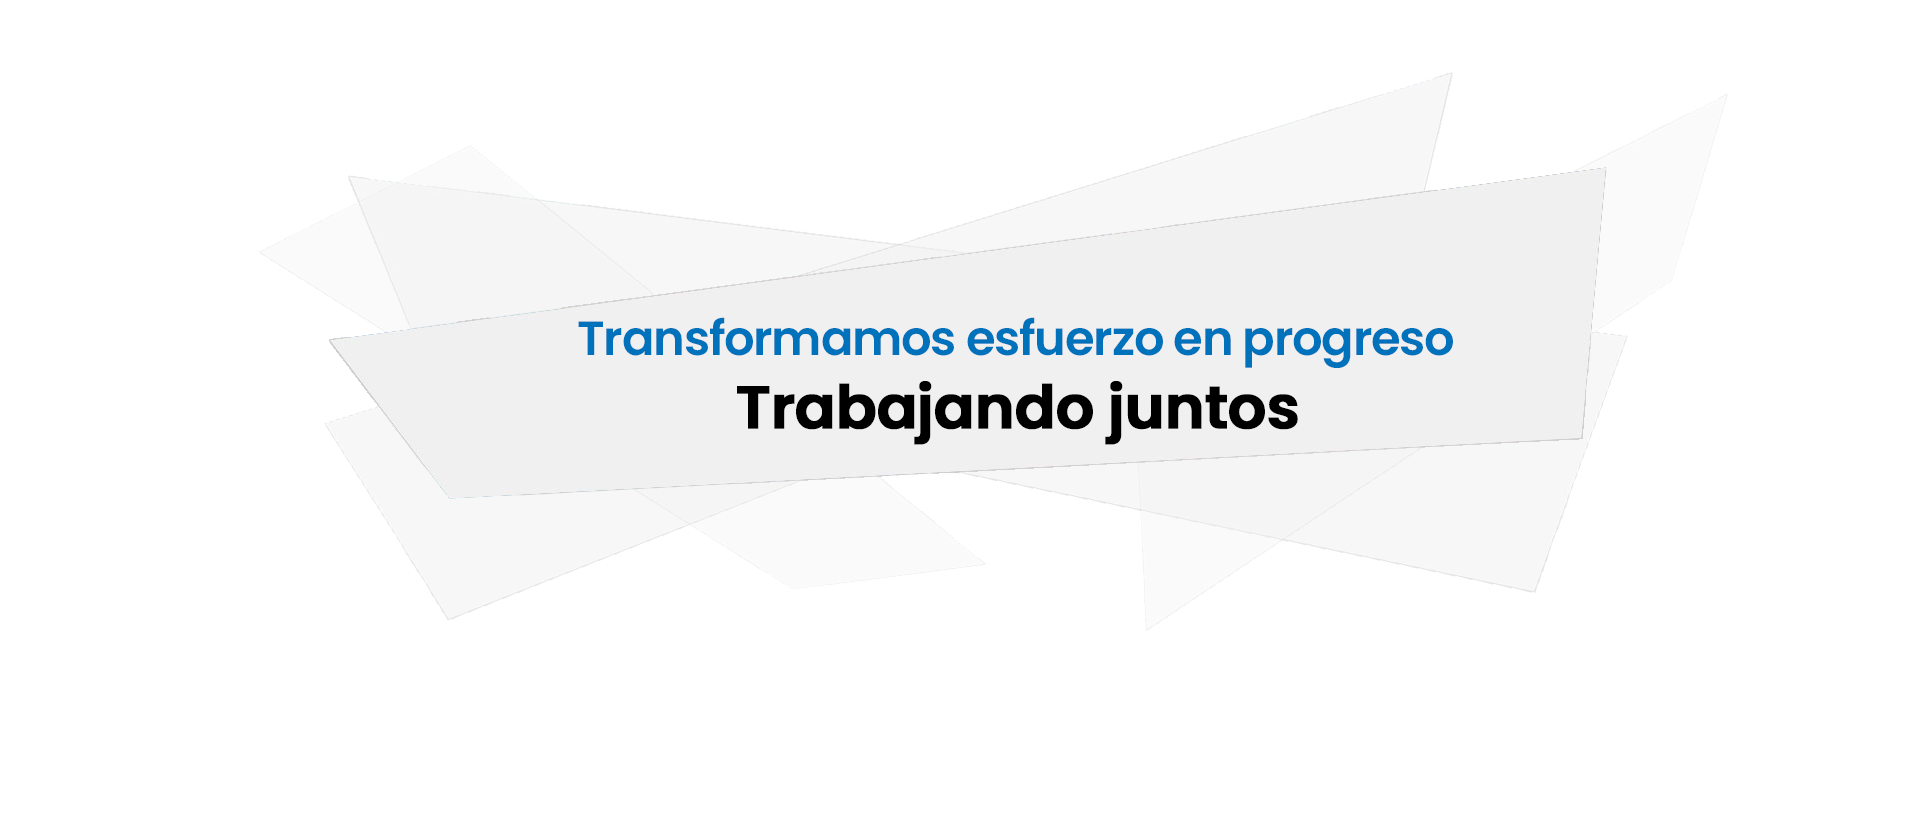
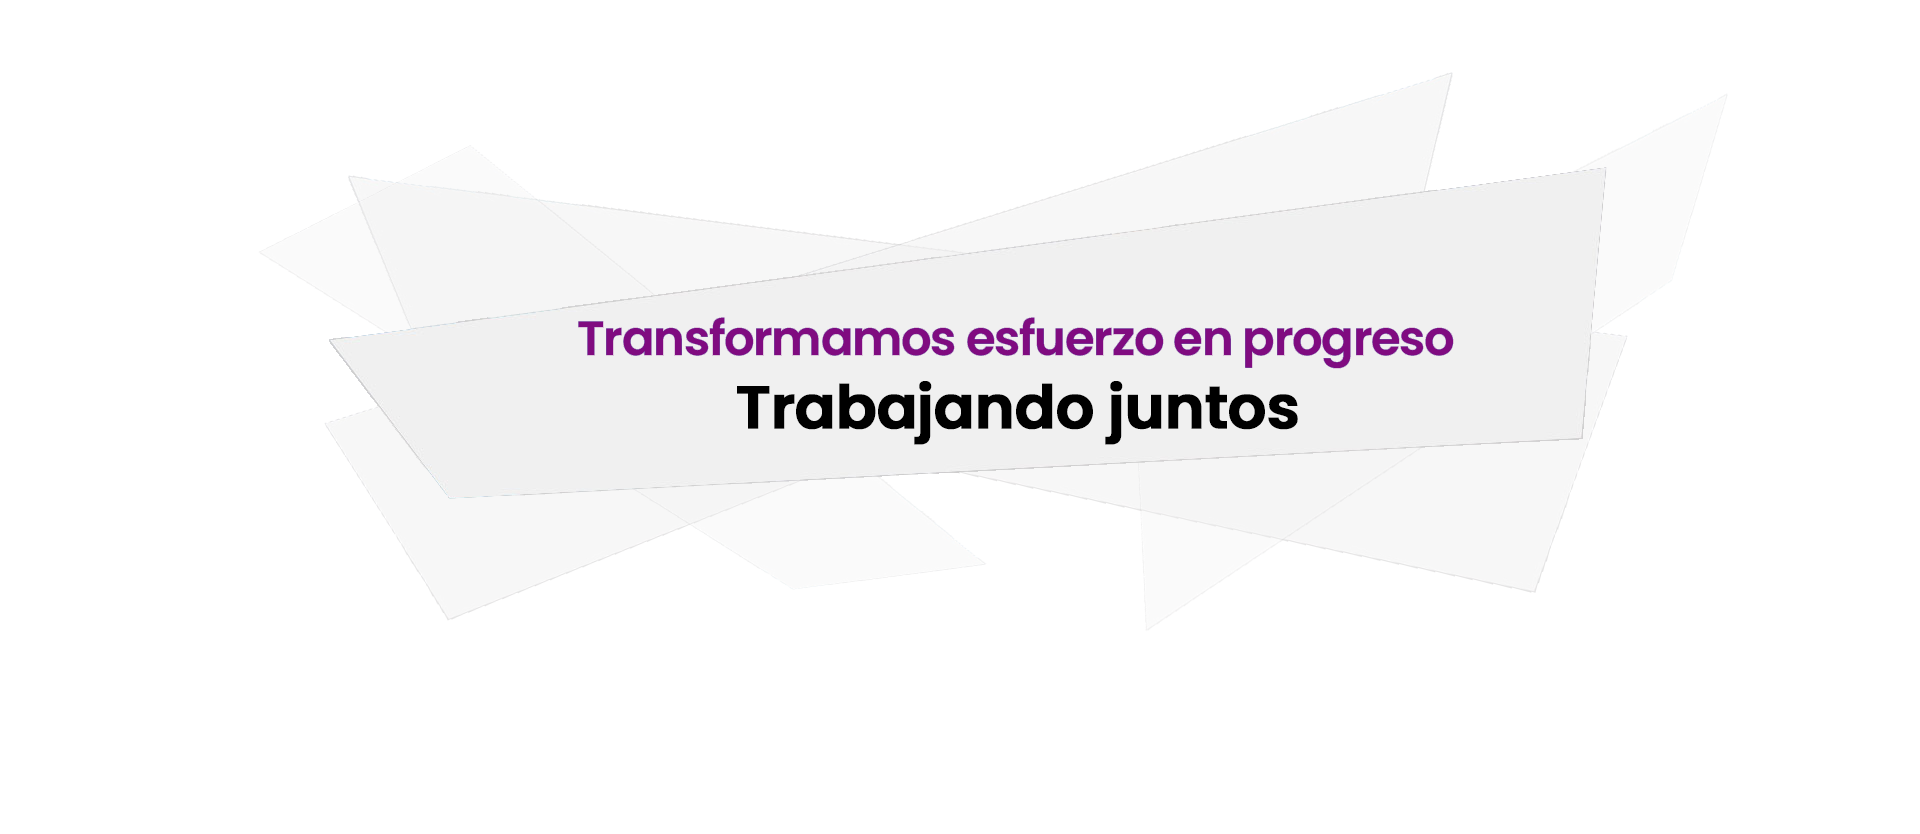
color primario y fotos

Changed region(s): [[0.2812, 0.3741, 0.7812, 0.4365]]

diff --git a/css/style.css b/css/style.css
@@ -29,6 +29,12 @@
 @import url(nice-select.css);
 
 /*--------------------------------------------------------------------- skeleton ---------------------------------------------------------------------*/
+:root {
+     --color-primario: #800b80; /* Aquí defines el color primario */
+     --color-secundario: #4d004d;
+     --color-terciario: #990b99;
+ }
+
 
 * {
      box-sizing: border-box !important;
@@ -180,7 +186,7 @@ img {
 
 .form-control:focus {
      border-color: #ffffff !important;
-     box-shadow: 0 0 0 .2rem rgba(255, 255, 255, .25);
+     box-shadow: 0 0 0 .2rem rgba(255, 255, 255, 0.25);
 }
 
 .navbar-form input {
@@ -281,14 +287,16 @@ button {
 
 .navigation.navbar-dark .navbar-nav .nav-link:focus,
 .navigation.navbar-dark .navbar-nav .nav-link:hover {
-     color: #000;
+     color: #ffffff;
+     font-weight: 700;
 }
 
 .navigation.navbar-dark .navbar-nav .active>.nav-link,
 .navigation.navbar-dark .navbar-nav .nav-link.active,
 .navigation.navbar-dark .navbar-nav .nav-link.show,
 .navigation.navbar-dark .navbar-nav .show>.nav-link {
-     color: #000;
+     color: #ffffff;
+     font-weight: 700;
 }
 
 .navbar-expand-md .navbar-nav {
@@ -296,7 +304,7 @@ button {
 }
 
 .header_information {
-     background-color: #0071BB;
+     background-color: var(--color-primario);
      padding: 0 0;
      padding-top: 0px;
      padding-top: 0px;
@@ -380,7 +388,7 @@ button {
 }
 
 .carousel-indicators .active {
-     background: #0071BB;
+     background: var(--color-primario);
 }
 
 .carousel-indicators li {
@@ -412,7 +420,7 @@ button {
 }
 
 .carousel-caption span {
-     color: #0071BB;
+     color: var(--color-primario);
      font-size: 40px;
      line-height: 50px;
      font-weight: 500;
@@ -421,7 +429,7 @@ button {
 
 .carousel-caption a {
      font-size: 17px;
-     background-color: #0071BB;
+     background-color: var(--color-primario);
      color: #fff;
      font-weight: 500;
      padding: 13px 0px;
@@ -457,7 +465,7 @@ button {
 }
 
 .titlepage span {
-     background: #0071BB;
+     background: var(--color-primario);
      display: block;
      height: 10px;
      width: 90px;
@@ -479,7 +487,7 @@ button {
      text-align: center;
      display: inline-block;
      border-radius: 30px;
-     border: #0071BB solid 3px;
+     border: var(--color-primario) solid 3px;
      transition: ease-in all 0.5s;
 }
 
@@ -488,7 +496,7 @@ button {
 }
 
 .read_more:hover {
-     background: #0071BB;
+     background: var(--color-primario);
      color: #fff !important;
      transition: ease-in all 0.5s;
 }
@@ -616,7 +624,7 @@ button {
 
 .jonu strong {
      display: block;
-     color: #0071BB;
+     color: var(--color-primario);
      font-size: 17px;
      padding-bottom: 50px;
 }
@@ -655,7 +663,7 @@ button {
      background-color: transparent;
      text-transform: uppercase;
      font-weight: 500;
-     border: #0071BB solid 3px;
+     border: var(--color-primario) solid 3px;
      color: #f9fcfd;
      padding: 8px 0px;
      margin: 0 auto;
@@ -667,7 +675,7 @@ button {
 }
 
 .main_form .send_btn:hover {
-     background-color: #0071BB;
+     background-color: var(--color-primario);
      transition: ease-in all 0.5s;
      color: #fff;
 }
@@ -684,7 +692,7 @@ button {
 /** footer **/
 
 .footer {
-     background: #042431;
+     background: var(--color-secundario);
      text-align: center;
 }
 
@@ -725,7 +733,7 @@ button {
      background-color: transparent;
      text-transform: uppercase;
      font-weight: 500;
-     border: #0071BB solid 3px;
+     border: var(--color-primario) solid 3px;
      color: #4d636c;
      padding: 5px 0px;
      margin-bottom: 5px;
@@ -736,13 +744,13 @@ button {
 }
 
 .submit:hover {
-     background-color: #0071BB;
+     background-color: var(--color-primario);
      transition: ease-in all 0.5s;
      color: #fff;
 }
 
 ul.cont li {
-     color: #8a9397;
+     color: #ffffff;
      font-size: 17px;
      line-height: 32px;
      text-align: left;
@@ -751,7 +759,7 @@ ul.cont li {
 .copyright {
      margin-top: 90px;
      padding: 20px 0px;
-     background-color: #0071BB;
+     background-color: var(--color-primario);
 }
 
 .copyright p {
@@ -805,7 +813,7 @@ ul.cont li {
     position: absolute;
     top: 100%;
     left: 0;
-    background-color: #0071BB;
+    background-color: var(--color-primario);
     padding: 10px;
     border-radius: 0 0 5px 5px;
     z-index: 500;
@@ -829,7 +837,7 @@ ul.cont li {
 }
 
 .submenu-content a:hover {
-    background-color: #555;
+    background-color: var(--color-secundario);
 }
 
 .mapa {
@@ -884,7 +892,7 @@ ul.cont li {
      margin-left: 1em;
      padding: 0.3em;
      color: #888;
-     border: 1px solid #0071BB;
+     border: 1px solid var(--color-primario);
      border-radius: 10px;
      font-size: 14px; 
 }
@@ -917,7 +925,7 @@ ul.cont li {
   .mobile-menu {
     /* Estilos para el menú en dispositivos móviles */
     display: block; /* Muestra el menú solo en dispositivos móviles */
-    background-color: rgba(0, 113, 187, 0.7); 
+    background-color: var(--color-primario); 
     padding-top: 5px; /* Espaciado interno para el menú */
     position: absolute; /* Posición absoluta para superponer */
     top: 5px; /* Distancia desde la parte superior */
@@ -941,7 +949,7 @@ ul.cont li {
    }
    
   .submenu-content {
-    background-color: rgba(0, 113, 187, 0.85);
+    background-color: var(--color-primario);
 }
 
   .menu-items {
@@ -986,14 +994,14 @@ ul.cont li {
      padding: 0.5em 0.5em;
      border: none;
      border-radius: 5px;
-     background-color: #0071BB;
+     background-color: var(--color-primario);
      color: white;
      cursor: pointer;
      transition: background-color 0.3s;
    }
  
    .filter-buttons button:hover {
-     background-color: #0099ff;
+     background-color: var(--color-terciario);
    }
  
    #keyword-input {
@@ -1017,14 +1025,14 @@ ul.cont li {
      padding: 10px 20px;
      border: none;
      border-radius: 5px;
-     background-color: #007bff;
+     background-color: var(--color-terciario);
      color: white;
      cursor: pointer;
      transition: background-color 0.3s;
    }
  
    #search-button:hover {
-     background-color: #0056b3;
+     background-color: var(--color-secundario);
    }
 
 .pagination {

diff --git a/index.html b/index.html
@@ -48,7 +48,7 @@
                     <div class="full">
                         <div class="center-desk">
                             <div class="logo">
-                                <a href="index.html"><img style="width: 80%" src="images/Logo.png" alt="#" /></a>
+                                <a href="index.html"><img style="width: 20%" src="images/LogoProd.jpg" alt="#" /><img style="width: 80%" src="images/Logo.png" alt="#" /></a>
                             </div>
                         </div>
                     </div>
@@ -143,10 +143,11 @@
             <li data-target="#myCarousel" data-slide-to="0" class="active"></li>
             <li data-target="#myCarousel" data-slide-to="1"></li>
             <li data-target="#myCarousel" data-slide-to="2"></li>
+            <li data-target="#myCarousel" data-slide-to="3"></li>
          </ol>
          <div class="carousel-inner">
             <div class="carousel-item active">
-               <img class="first-slide" src="images/gestion 1.jpg" alt="First slide">
+               <img class="first-slide" src="images/gestion 3.jpg" alt="First slide">
                <div class="container">
                   <div class="carousel-caption relative res-d-none">
                      <img src="images/trabajando-juntos.png">
@@ -162,7 +163,15 @@
                </div>
             </div>
             <div class="carousel-item">
-               <img class="third-slide" src="images/gestion 3.jpg" alt="Third slide">
+               <img class="third-slide" src="images/empleo.jpg" alt="Third slide">
+               <div class="container">
+                  <div class="carousel-caption relative res-d-none">
+                    <img src="images/trabajando-juntos.png">
+                  </div>
+               </div>
+            </div>
+            <div class="carousel-item">
+               <img class="third-slide" src="images/turismo.jpg" alt="Four slide">
                <div class="container">
                   <div class="carousel-caption relative res-d-none">
                     <img src="images/trabajando-juntos.png">
@@ -226,7 +235,7 @@
       <!-- end about -->
 
       <!-- mobile --> 
-      <div id="mobile"  class="about res-d-none">
+      <div id="mobile"  class="about">
          <div class="container">
             <div class="row d_flex">
                <div class="col-md-5">

diff --git a/institucional/desarrollos-productivos.html b/institucional/desarrollos-productivos.html
@@ -49,7 +49,7 @@
                      <div class="full">
                         <div class="center-desk">
                            <div class="logo">
-                              <a href="../index.html"><img style="width: 80%" src="../images/Logo.png" alt="#" /></a>
+                              <a href="../index.html"><img style="width: 20%" src="../images/LogoProd.jpg" alt="#" /><img style="width: 80%" src="../images/Logo.png" alt="#" /></a>
                            </div>
                         </div>
                      </div>

diff --git a/institucional/empleo.html b/institucional/empleo.html
@@ -49,7 +49,7 @@
                      <div class="full">
                         <div class="center-desk">
                            <div class="logo">
-                              <a href="../index.html"><img style="width: 80%" src="../images/Logo.png" alt="#" /></a>
+                              <a href="../index.html"><img style="width: 20%" src="../images/LogoProd.jpg" alt="#" /><img style="width: 80%" src="../images/Logo.png" alt="#" /></a>
                            </div>
                         </div>
                      </div>

diff --git a/institucional/industria.html b/institucional/industria.html
@@ -49,7 +49,7 @@
                      <div class="full">
                         <div class="center-desk">
                            <div class="logo">
-                              <a href="../index.html"><img style="width: 80%" src="../images/Logo.png" alt="#" /></a>
+                              <a href="../index.html"><img style="width: 20%" src="../images/LogoProd.jpg" alt="#" /><img style="width: 80%" src="../images/Logo.png" alt="#" /></a>
                            </div>
                         </div>
                      </div>

diff --git a/institucional/pesca.html b/institucional/pesca.html
@@ -49,7 +49,7 @@
                      <div class="full">
                         <div class="center-desk">
                            <div class="logo">
-                              <a href="../index.html"><img style="width: 80%" src="../images/Logo.png" alt="#" /></a>
+                              <a href="../index.html"><img style="width: 20%" src="../images/LogoProd.jpg" alt="#" /><img style="width: 80%" src="../images/Logo.png" alt="#" /></a>
                            </div>
                         </div>
                      </div>

diff --git a/institucional/turismo.html b/institucional/turismo.html
@@ -49,7 +49,7 @@
                      <div class="full">
                         <div class="center-desk">
                            <div class="logo">
-                              <a href="../index.html"><img style="width: 80%" src="../images/Logo.png" alt="#" /></a>
+                              <a href="../index.html"><img style="width: 20%" src="../images/LogoProd.jpg" alt="#" /><img style="width: 80%" src="../images/Logo.png" alt="#" /></a>
                            </div>
                         </div>
                      </div>

diff --git a/institucional/unidades-productivas.html b/institucional/unidades-productivas.html
@@ -49,7 +49,7 @@
                      <div class="full">
                         <div class="center-desk">
                            <div class="logo">
-                              <a href="../index.html"><img style="width: 80%" src="../images/Logo.png" alt="#" /></a>
+                              <a href="../index.html"><img style="width: 20%" src="../images/LogoProd.jpg" alt="#" /><img style="width: 80%" src="../images/Logo.png" alt="#" /></a>
                            </div>
                         </div>
                      </div>

diff --git a/institucional/desarrollo-agrario.html b/institucional/desarrollo-agrario.html
@@ -49,7 +49,7 @@
                      <div class="full">
                         <div class="center-desk">
                            <div class="logo">
-                             <a href="../index.html"><img style="width: 80%" src="../images/Logo.png" alt="#" /></a>
+                             <a href="../index.html"><img style="width: 20%" src="../images/LogoProd.jpg" alt="#" /><img style="width: 80%" src="../images/Logo.png" alt="#" /></a>
                            </div>
                         </div>
                      </div>

diff --git a/mapa.html b/mapa.html
@@ -53,7 +53,7 @@
                      <div class="full">
                         <div class="center-desk">
                            <div class="logo">
-                              <a href="index.html"><img style="width: 80%" src="images/Logo.png" alt="#" /></a>
+                              <a href="index.html"><img style="width: 20%" src="images/LogoProd.jpg" alt="#" /><img style="width: 80%" src="images/Logo.png" alt="#" /></a>
                            </div>
                         </div>
                      </div>

diff --git a/noticias.html b/noticias.html
@@ -47,7 +47,7 @@
                      <div class="full">
                         <div class="center-desk">
                            <div class="logo">
-                              <a href="index.html"><img style="width: 80%" src="images/Logo.png" alt="#" /></a>
+                              <a href="index.html"><img style="width: 20%" src="images/LogoProd.jpg" alt="#" /><img style="width: 80%" src="images/Logo.png" alt="#" /></a>
                            </div>
                         </div>
                      </div>

diff --git a/transparencia.html b/transparencia.html
@@ -49,7 +49,7 @@
                      <div class="full">
                         <div class="center-desk">
                            <div class="logo">
-                              <a href="index.html"><img style="width: 80%" src="images/Logo.png" alt="#" /></a>
+                              <a href="index.html"><img style="width: 20%" src="images/LogoProd.jpg" alt="#" /><img style="width: 80%" src="images/Logo.png" alt="#" /></a>
                            </div>
                         </div>
                      </div>
